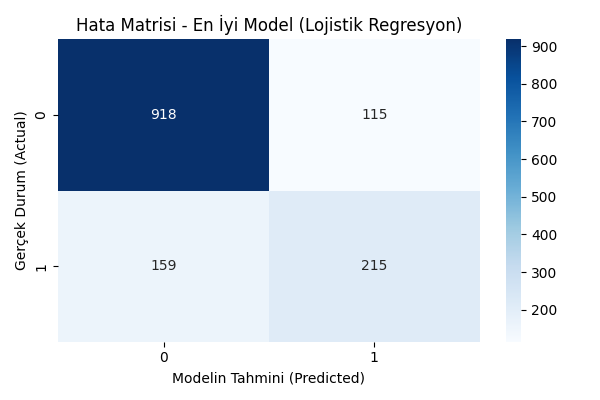
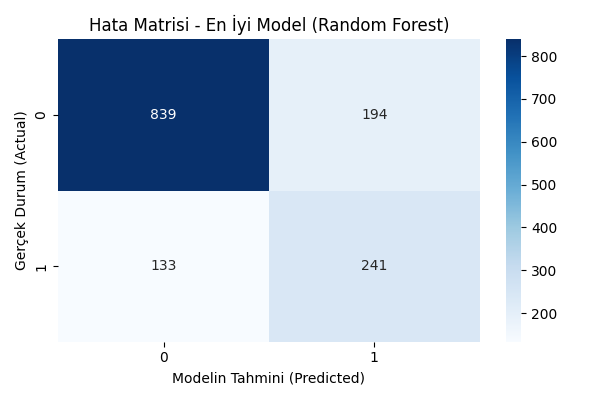
GridSearchCV eklendi ve Feature Importance grafikleri olusturuldu

diff --git a/veri-bilimi(ml)/model_train.py b/veri-bilimi(ml)/model_train.py
@@ -1,13 +1,16 @@
 import pandas as pd
-from sklearn.model_selection import train_test_split
+from sklearn.model_selection import train_test_split, GridSearchCV
 from sklearn.preprocessing import StandardScaler
 from sklearn.linear_model import LogisticRegression
 from sklearn.ensemble import RandomForestClassifier, GradientBoostingClassifier
+from xgboost import XGBClassifier
 from sklearn.metrics import accuracy_score, confusion_matrix, roc_auc_score, classification_report
 import matplotlib.pyplot as plt
 import seaborn as sns
+import numpy as np
 from imblearn.over_sampling import SMOTE
 import joblib
+import os
 
 def load_data_and_features(filepath='cleaned_churn_data.csv'):
     """Veriyi yükler ve özellik (Feature/X) ile hedef değişkeni (Target/y) ayırır."""
@@ -56,53 +59,88 @@ def build_and_evaluate_model():
     print(f"info: SMOTE Öncesi Sınıf Dağılımı: \n{y_train.value_counts()}")
     print(f"info: SMOTE Sonrası Sınıf Dağılımı: \n{y_train_resampled.value_counts()}")
     
-    # 4. Modellerin Tanımlanması
-    # Daha yüksek doğruluk için farklı makine öğrenmesi algoritmaları deniyoruz:
+    # 4. Modellerin Tanımlanması (Temel Modeller)
     models = {
-        "Lojistik Regresyon": LogisticRegression(max_iter=1000, random_state=42),
-        "Random Forest (Rastgele Orman)": RandomForestClassifier(n_estimators=100, random_state=42),
-        "Gradient Boosting (GBM)": GradientBoostingClassifier(n_estimators=100, random_state=42)
+        "Random Forest": RandomForestClassifier(random_state=42),
+        "XGBoost": XGBClassifier(use_label_encoder=False, eval_metric='logloss', random_state=42)
+    }
+
+    # Hiperparametre gridleri
+    param_grids = {
+        "Random Forest": {
+            'n_estimators': [100, 200],
+            'max_depth': [10, 15, None],
+            'min_samples_split': [2, 5]
+        },
+        "XGBoost": {
+            'n_estimators': [100, 200],
+            'max_depth': [3, 5, 7],
+            'learning_rate': [0.01, 0.1, 0.2]
+        }
     }
     
     best_model_name = ""
     best_acc = 0
     best_y_pred = None
+    best_model = None
     
     print("\n" + "="*50)
-    print("info: Modeller eğitiliyor ve karşılaştırılıyor...")
+    print("info: Modeller eğitiliyor (GridSearchCV ile Optimizasyon)...")
     print("="*50)
     
-    # 5. Modellerin Eğitilmesi ve Karşılaştırılması
+    # 5. Modellerin Eğitilmesi ve Karşılaştırılması (GridSearchCV eklendi)
     for model_name, model in models.items():
-        # Modeli SMOTE uygulanmış, dengeli veri ile eğit
-        model.fit(X_train_resampled, y_train_resampled)
+        print(f"info: {model_name} için Hiperparametre araması yapılıyor...")
+        grid_search = GridSearchCV(estimator=model, param_grid=param_grids[model_name], cv=3, scoring='roc_auc', n_jobs=-1)
+        grid_search.fit(X_train_resampled, y_train_resampled)
         
-        # Tahminleme (Prediction) - Test verisi asla değiştirilmez (orijinal veriden test edilir)
-        y_pred = model.predict(X_test_scaled)
-        y_proba = model.predict_proba(X_test_scaled)[:, 1] 
+        # En iyi hiperparametrelerle model
+        best_grid_model = grid_search.best_estimator_
+        print(f"info: {model_name} En iyi parametreler: {grid_search.best_params_}")
         
+        # Tahminleme (Prediction) - Test verisi orijinal halinde kalıyor
+        y_pred = best_grid_model.predict(X_test_scaled)
         # Metrikler
+        y_proba = best_grid_model.predict_proba(X_test_scaled)[:, 1] 
         acc = accuracy_score(y_test, y_pred)
         roc = roc_auc_score(y_test, y_proba)
         
-        print(f"\n--- {model_name} Sonuçları ---")
+        print(f"\n--- {model_name} Sonuçları (Optimize Edilmiş) ---")
         print(f"Accuracy (Doğruluk Oranı): {acc:.4f}")
         print(f"ROC-AUC Skoru:             {roc:.4f}")
         
-        if acc > best_acc:
-            best_acc = acc
+        # Seçimde ROC-AUC puanına öncelik veriyoruz (Dengesiz Veri)
+        if roc > best_acc:
+            best_acc = roc
             best_model_name = model_name
             best_y_pred = y_pred
+            best_model = best_grid_model
 
     print("\n" + "="*50)
-    print(f"EN İYİ MODEL: {best_model_name} (Doğruluk: {best_acc:.4f})")
+    print(f"EN İYİ MODEL: {best_model_name} (ROC-AUC: {best_acc:.4f})")
     print("="*50)
     
-    print(f"\n{best_model_name} için Sınıflandırma Analizi (Classification Report):")
+    print(f"\n{best_model_name} için Sınıflandırma Analizi:")
     print(classification_report(y_test, best_y_pred))
     
-    # 5.5. En İyi Modeli ve Scaler'ı Ara Yüz (Streamlit) İçin Kaydetme
-    joblib.dump(models[best_model_name], 'best_churn_model.pkl')
+    # 6. Özellik Önemi (Feature Importance) Çizimi (En çok etki eden metrikler)
+    print("info: Özellik önemleri görselleştiriliyor...")
+    importances = best_model.feature_importances_
+    features = X_train_resampled.columns
+    indices = np.argsort(importances)[::-1]
+    
+    plt.figure(figsize=(10, 6))
+    plt.title(f"Ayrılmayı Tetikleyen Faktörler (Feature Importance) - {best_model_name}")
+    # En önemli 15 faktör
+    plt.bar(range(15), importances[indices][:15], color='teal', align="center")
+    plt.xticks(range(15), [features[i] for i in indices[:15]], rotation=45, ha='right')
+    plt.tight_layout()
+    os.makedirs('assets', exist_ok=True)
+    plt.savefig('assets/feature_importance.png')
+    plt.close()
+    
+    # 7. Model ve Araçların Dışa Aktarımı
+    joblib.dump(best_model, 'best_churn_model.pkl')
     joblib.dump(scaler, 'scaler.pkl')
     # Orijinal veri şemasını bilmemiz gerektiği için columns kaydı
     joblib.dump(X_train_resampled.columns.tolist(), 'model_columns.pkl')
@@ -116,7 +154,6 @@ def build_and_evaluate_model():
     plt.xlabel('Modelin Tahmini (Predicted)')
     plt.ylabel('Gerçek Durum (Actual)')
     plt.tight_layout()
-    import os
     os.makedirs('assets', exist_ok=True)
     plt.savefig('assets/confusion_matrix.png')
     plt.show()

diff --git a/veri-bilimi(ml)/data_overview.py b/veri-bilimi(ml)/data_overview.py
@@ -1,6 +1,7 @@
 import pandas as pd
 import matplotlib.pyplot as plt
 import seaborn as sns
+import os
 
 def analyze_data(filepath='cleaned_churn_data.csv'):
     """
@@ -17,7 +18,7 @@ def analyze_data(filepath='cleaned_churn_data.csv'):
     print("\n--- Temel İstatistiksel Özet (Sayısal Veriler) ---")
     print(df.describe())
     
-    print("\n--- Hedef Değişken (Churn) Dağılım Oranı ---")
+    print("\n--- Hedef Değişken (Churn) DağılıM Oranı ---")
     # Kaç müşteri şirketi terk etmiş (1) / terk etmemiş (0) oransal gösterim.
     print(df['Churn'].value_counts(normalize=True) * 100)
     
@@ -34,6 +35,9 @@ def analyze_data(filepath='cleaned_churn_data.csv'):
     plt.title('Müşteri Kaybı (Churn) Dağılımı (0: Kayıp Yok, 1: Kayıp Var)')
     plt.xlabel('Churn Durumu')
     plt.ylabel('Müşteri Sayısı')
+    plt.tight_layout()
+    os.makedirs('assets', exist_ok=True)
+    plt.savefig('assets/churn_distribution.png')
     plt.show()
     
     # 3.b. Sayısal değişkenlerin (TotalCharges, MonthlyCharges vb.) histogramları
@@ -41,6 +45,7 @@ def analyze_data(filepath='cleaned_churn_data.csv'):
     df[num_cols].hist(figsize=(12, 8), bins=30, color='skyblue', edgecolor='black')
     plt.suptitle('Sayısal Değişkenlerin Dağılımları', fontsize=14)
     plt.tight_layout()
+    plt.savefig('assets/num_features_hist.png')
     plt.show()
 
 if __name__ == "__main__":

diff --git a/veri-bilimi(ml)/data_preparation.py b/veri-bilimi(ml)/data_preparation.py
@@ -1,5 +1,7 @@
 import pandas as pd
 import numpy as np
+import matplotlib.pyplot as plt
+import os
 
 def load_and_clean_data(filepath='churn_data.csv'):
     """
@@ -44,7 +46,17 @@ def load_and_clean_data(filepath='churn_data.csv'):
     cleaned_filepath = 'cleaned_churn_data.csv'
     df.to_csv(cleaned_filepath, index=False)
     print(f"success: Temizlenmiş veri '{cleaned_filepath}' olarak kaydedildi.")
-    
+    # Temizlenmiş verinin ilk 5 satırını görselleştirip assets klasörüne kaydet
+    os.makedirs('assets', exist_ok=True)
+    fig, ax = plt.subplots(figsize=(10, 1.5))
+    ax.axis('off')
+    tbl = ax.table(cellText=df.head().values, colLabels=df.columns, loc='center', cellLoc='center')
+    tbl.auto_set_font_size(False)
+    tbl.set_fontsize(8)
+    tbl.scale(1.2, 1.2)
+    plt.tight_layout()
+    plt.savefig('assets/cleaned_sample.png')
+    plt.close()
     return df
 
 if __name__ == "__main__":
